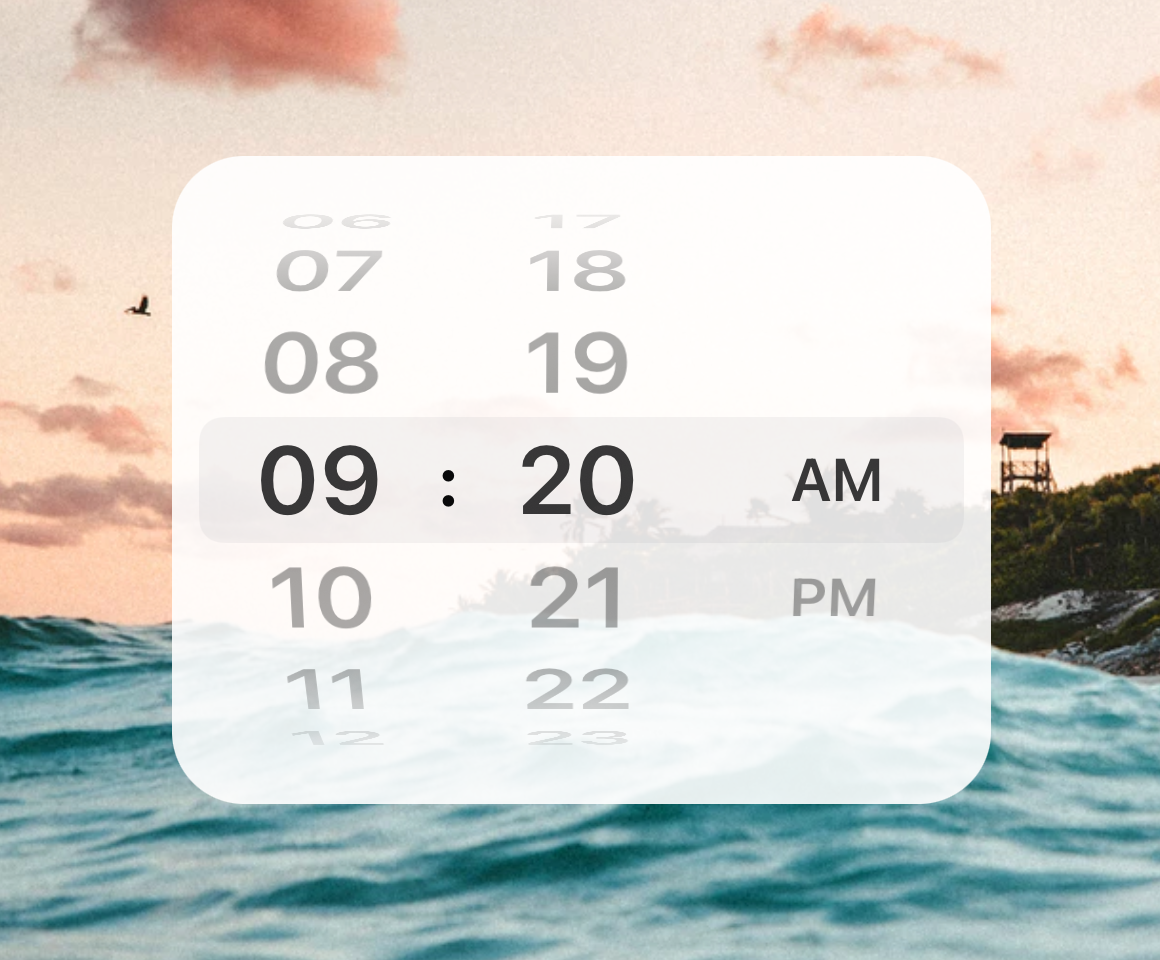
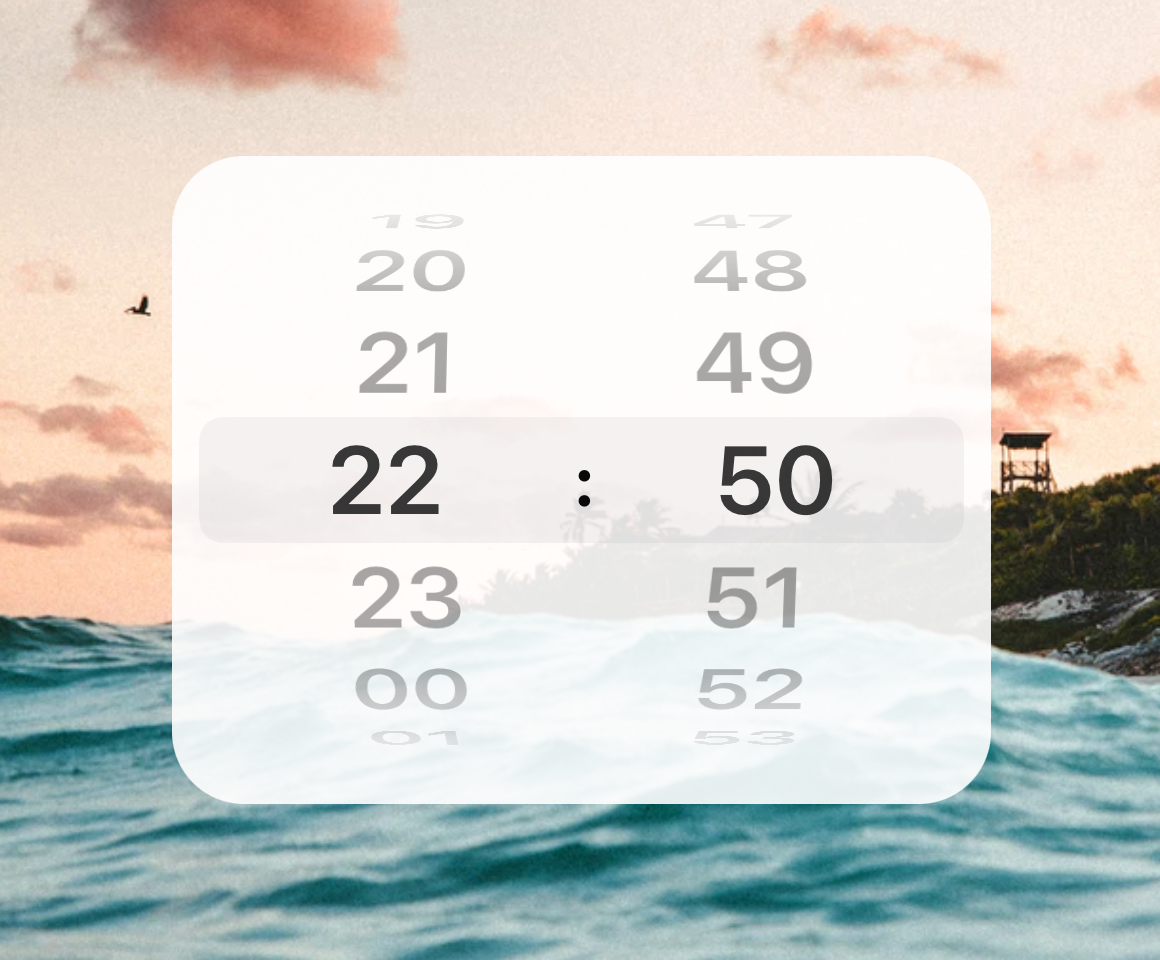
fix: demo screens

diff --git a/RealTimePickerExamples/ExampleViewController.swift b/RealTimePickerExamples/ExampleViewController.swift
@@ -34,12 +34,12 @@ class ExampleViewController: UIViewController {
     }()
     
     private var timePicker: RealTimePickerView = {
-        let view = RealTimePickerView(format: .h24, tintColor: .white)
+        let view = RealTimePickerView(format: .h24)
         view.rowHeight = 40 // default row height is 60
         view.timeLabelFont = UIFont.systemFont(ofSize: 32, weight: .semibold) // default size
         view.colonLabelFont = UIFont.systemFont(ofSize: 32 * 0.75, weight: .bold) // default size
         view.formatLabelFont = UIFont.systemFont(ofSize: 20, weight: .semibold) // default size
-        view.backgroundColor = UIColor.black.withAlphaComponent(0.8)
+        view.backgroundColor = UIColor.white.withAlphaComponent(0.9)
         view.layer.cornerRadius = 24
         view.showCurrentTime = true
         return view
